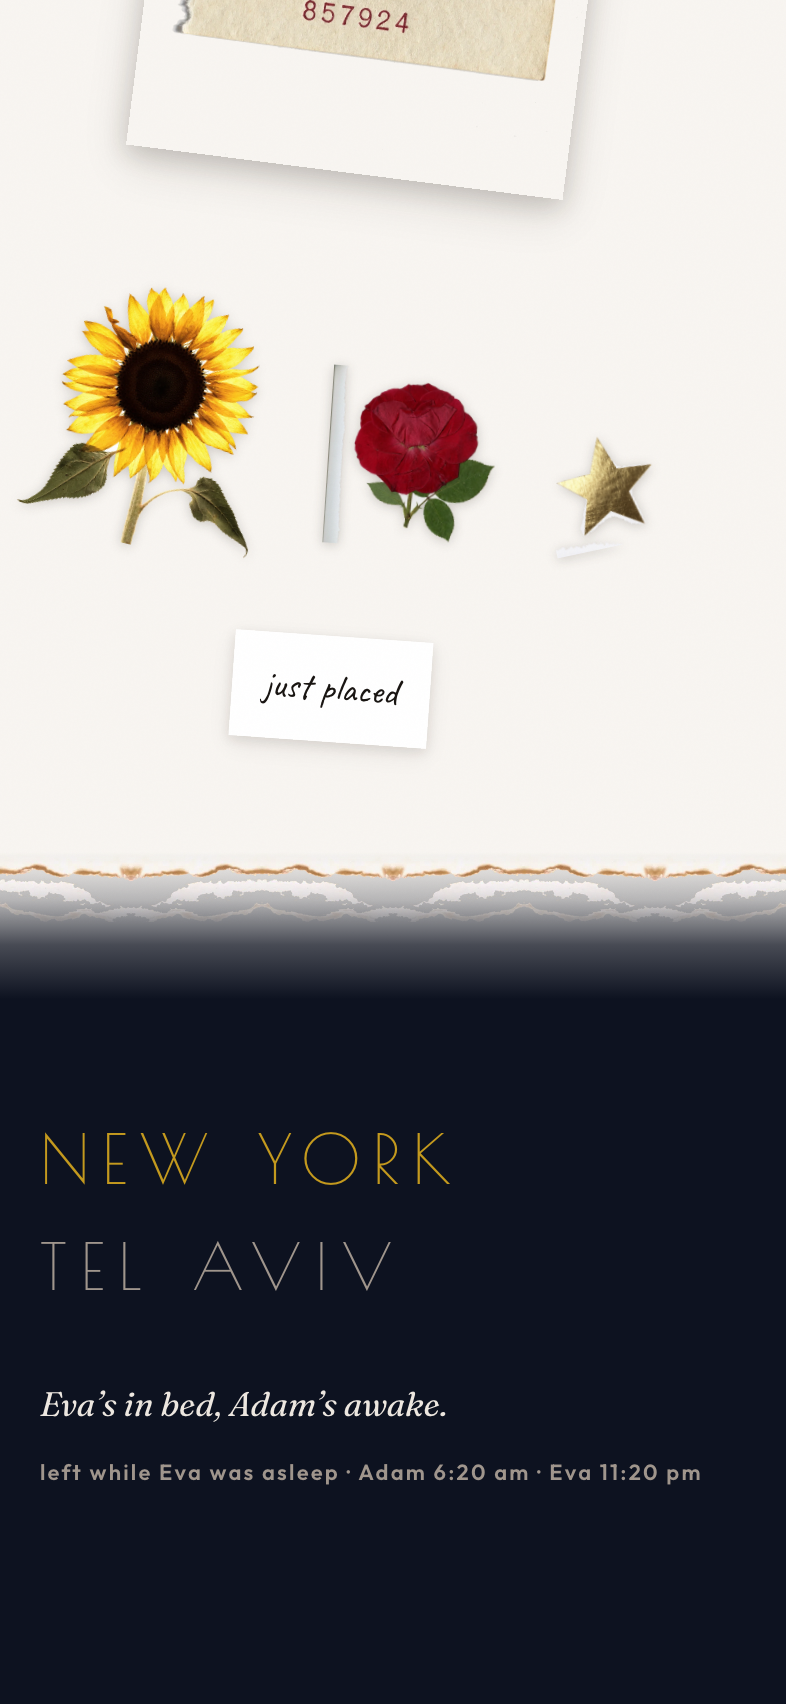
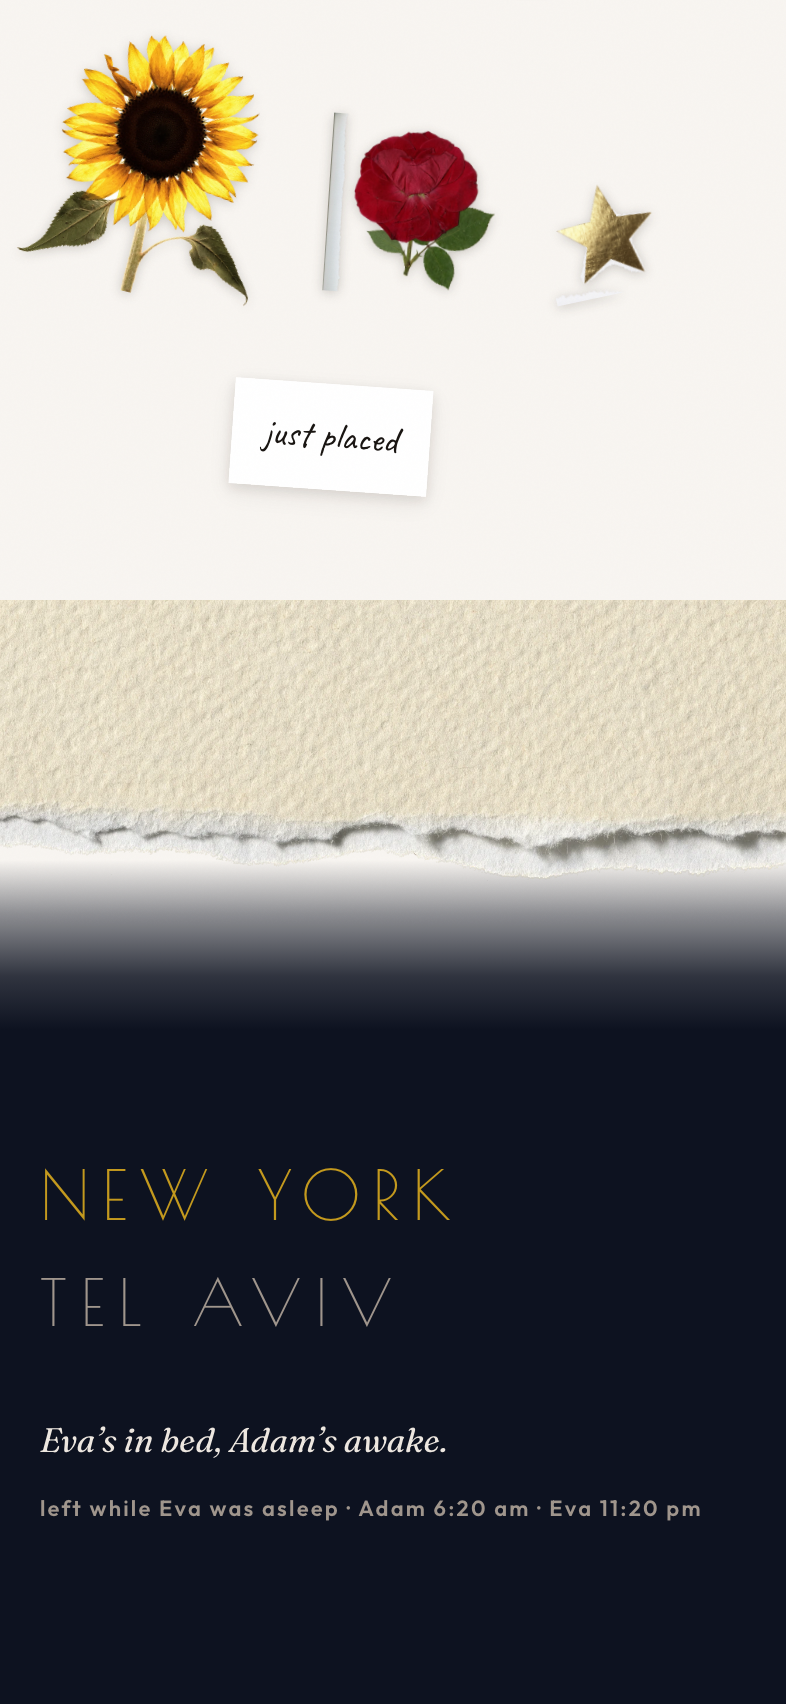
feat(materials): Seam built on the generated tear — coldpress default, bone by prop
The mechanical derivative is gone (scorch read as water damage, hard
crop bottom, 64.6% opaque top row); the Seam now composites
seam-tear-coldpress.webp, generated for the purpose: 100% opaque top
row butting flush against the paper, real tear geometry, true alpha
below the fibre — no masks needed, the feathering is the material.

variant='bone' swaps the rougher hand-ripped sheet in one word; the
founder picks on sight from the committed frames (coldpress reads as
the page ending, bone's laid lines fight the canvas).

height default rises to 224: the strip takes its natural aspect
(~145px at 393w) and the remainder is falloff. Judged by eye against
the alternative: the falloff begins BELOW the tear line, keeping
light on the fibre — at the tear it reads as a mask, below it reads
as a room. Both frames committed (wave0-day-seam vs
wave0-day-seam-falloff-at-tear).

Barrel comment no longer says the Seam is night-only; it renders in
both modes, always — place, not time.

diff --git a/apps/web/components/materials/Seam.tsx b/apps/web/components/materials/Seam.tsx
@@ -9,81 +9,95 @@ import { cn } from "@/lib/utils";
  * it, the distance (DECO — the sky, the skylines, the stamp).
  *
  * It is NOT a divider. If it reads as a section break, it has failed.
- * Two things keep it a single continuous space:
- *
- *   1. The fibre edge is a real torn sheet, composited as an <img>.
- *      `torn-edge-coldpress-seam.webp` is a mechanical derivative of
- *      torn-edge-coldpress.webp: rotated 90° CCW so the tear faces
- *      down, cropped to the tear band (measured from the alpha
- *      channel, not eyeballed). Never simulate this edge with
- *      box-shadow, clip-path or an SVG filter — a drawn tear is
- *      exactly the "made with coal" failure the founder rejected.
- *
- *   2. The falloff is light dying, not a colour block starting. The
- *      gradient begins fully transparent — the canvas above continues
- *      through the fibre — and lands on var(--night-sky) at the bottom
- *      edge, where the DECO section below must open on that exact
- *      colour. The handoff is invisible by construction.
  *
  * PLACE, NOT TIME. The Seam renders in both light and dark mode and
- * takes no mode check — revised §1: the clock stopped governing. The
- * --night-* tokens it depends on are :root constants for this reason.
+ * takes no mode check — revised §1 (2026-08-04): the clock stopped
+ * governing. Do not re-introduce a `[data-mode]` gate here; the
+ * --night-* tokens this component depends on are :root constants
+ * precisely so a Seam at noon still falls into the same sky.
+ *
+ * MATERIAL. The fibre edge is a generated horizontal tear
+ * (seam-tear-*.webp), purpose-made for this component: its top row is
+ * 100% opaque so it butts flush against the paper above with no join,
+ * its tear meanders with real geometry (std ~17px), and everything
+ * below the fibre is true alpha. It composites as a plain <img> with
+ * no masks — the feathering is in the material. Never simulate this
+ * edge with box-shadow, clip-path or an SVG filter, and never crop a
+ * band off torn-edge-coldpress.webp for it: that asset's tear runs
+ * vertically and any horizontal crop of it is a straight line wearing
+ * texture (that failure shipped twice on this branch already).
+ *
+ * LIGHT. The falloff gradient sits BEHIND the fibre and begins just
+ * below the tear line, not at it — a torn edge with light still on
+ * its fibre reads as a real object; one that goes straight to black
+ * reads as a mask. It lands on var(--night-sky) before the bottom
+ * edge, and the DECO section below must open on that exact colour —
+ * the handoff is invisible by construction.
  */
+
+export type SeamVariant = "coldpress" | "bone";
 
 export interface SeamProps {
   /**
-   * Total height of the seam in pixels. The torn fibre occupies
-   * roughly the top 32px; the rest is falloff into --night-sky.
-   * @default 80
+   * Which torn sheet ends the paper world. 'coldpress' is the soft
+   * deckle with cotton fibres (default — it reads as a sheet ending);
+   * 'bone' is the rougher hand-ripped tear with laid lines. The
+   * founder picks on sight; swapping is this one word.
+   * @default "coldpress"
+   */
+  variant?: SeamVariant;
+  /**
+   * Total height in pixels: the fibre strip at its natural aspect
+   * (~37% of render width — ~145px at 393px) plus the falloff below
+   * it. The default gives the tear an ~80px falloff at phone width;
+   * anything under ~180 starts cropping the tear itself.
+   * @default 224
    */
   height?: number;
   className?: string;
 }
 
-/** Derived fibre-edge asset — see the component comment for provenance. */
-const FIBRE_SRC = "/materials/torn-edge-coldpress-seam.webp";
+/** Natural dimensions ride along so the browser derives the aspect. */
+const FIBRE: Record<SeamVariant, { src: string; width: number; height: number }> = {
+  coldpress: { src: "/materials/seam-tear-coldpress.webp", width: 1344, height: 497 },
+  bone: { src: "/materials/seam-tear-bone.webp", width: 1344, height: 507 },
+};
 
-export function Seam({ height = 80, className }: SeamProps) {
+/**
+ * Falloff stops, as fractions of the container at the 393px baseline.
+ * Measured from the coldpress alpha channel: solid paper ends at 83%
+ * of the strip, fibre is gone by 95% — at height 224 that is ~54% and
+ * ~62% of the container. Darkness starts under the lit fibre (58%),
+ * not at the tear line.
+ */
+const FALLOFF =
+  "linear-gradient(to bottom, rgb(13 18 32 / 0) 0%, rgb(13 18 32 / 0) 58%, rgb(13 18 32 / 0.45) 70%, rgb(13 18 32 / 0.85) 84%, var(--night-sky) 96%)";
+
+export function Seam({ variant = "coldpress", height = 224, className }: SeamProps) {
+  const fibre = FIBRE[variant];
+
   return (
     <div
       aria-hidden="true"
       className={cn("relative w-full overflow-hidden", className)}
       style={{ height }}
     >
-      {/* Light falling off into the sky. Transparent through the fibre
-          zone so the canvas continues into the tear; --night-sky well
-          before the bottom edge so the handoff to the DECO section
-          below has margin. The stops are rgb(13 18 32 / …) rather than
+      {/* Light dying into the sky — behind and below the fibre, never
+          on top of it. The stops are rgb(13 18 32 / …) rather than
           `transparent` because a gradient through transparent-black
           greys out its midpoint. */}
-      <div
-        className="absolute inset-0"
-        style={{
-          background:
-            "linear-gradient(to bottom, rgb(13 18 32 / 0) 0%, rgb(13 18 32 / 0.28) 30%, rgb(13 18 32 / 0.75) 58%, var(--night-sky) 92%)",
-        }}
-      />
+      <div className="absolute inset-0" style={{ background: FALLOFF }} />
 
-      {/* The real fibre edge. The derived band is three mirrored tiles
-          of the tear, so at full width it stands about 43px tall and
-          the whole tear — sheet, tear line, hanging fibre — lives and
-          fades inside the seam instead of being clipped by it. The
-          mask is compositing, not drawing: it blends the sheet's crop
-          line into the canvas above and lets the fibre dissolve into
-          the dark instead of ending on a crop edge. */}
+      {/* The torn sheet itself, flush against the paper above. */}
       {/* eslint-disable-next-line @next/next/no-img-element -- keyed
           material composite; the image optimizer adds nothing to a
           small webp and must never re-encode its alpha. */}
       <img
-        src={FIBRE_SRC}
+        src={fibre.src}
         alt=""
+        width={fibre.width}
+        height={fibre.height}
         className="absolute inset-x-0 top-0 h-auto w-full"
-        style={{
-          WebkitMaskImage:
-            "linear-gradient(to bottom, transparent 0, #000 6px, #000 16px, rgb(0 0 0 / 0.5) 24px, transparent 38px)",
-          maskImage:
-            "linear-gradient(to bottom, transparent 0, #000 6px, #000 16px, rgb(0 0 0 / 0.5) 24px, transparent 38px)",
-        }}
       />
     </div>
   );

diff --git a/apps/web/components/materials/index.ts b/apps/web/components/materials/index.ts
@@ -8,7 +8,8 @@
  * Import order reflects the dependency chain:
  *   Mounted → everything (rotation, mass, settle physics)
  *   Taped / Pinned / Torn → composite wrappers over Mounted content
- *   Seam → the boundary between paper world and DECO city (night only)
+ *   Seam → where the paper tears into the DECO sky — both modes,
+ *          always; place, not time (revised §1)
  */
 export { Mounted } from "./Mounted";
 export type { MountedProps, MountedContext } from "./Mounted";
@@ -23,4 +24,4 @@ export { Torn } from "./Torn";
 export type { TornProps } from "./Torn";
 
 export { Seam } from "./Seam";
-export type { SeamProps } from "./Seam";
+export type { SeamProps, SeamVariant } from "./Seam";

diff --git a/docs/08-agents_work/sessions/2026-08-04-fable-wave0-foundation.md b/docs/08-agents_work/sessions/2026-08-04-fable-wave0-foundation.md
@@ -8,5 +8,5 @@ qa_verdict: PENDING — QA-Lead review requested
 
 Wave 0 shipped: 27 keyed material assets (webp, replacing 60 MB unkeyed PNGs), DECO tokens moved to `:root` as place-not-mode constants, three hand fonts declared in apps/web (not the kit root), five primitives (Mounted/Taped/Pinned/Torn/Seam) corrected against the revised §1, bench at `/dev/materials`, screenshots day+night in `screens/2026-08-04-wave0/`.
 Collision note: a second agent (design-lead-wave0) built in the same worktree from the stale packet; their good work was kept, their asset/token/font/Seam errors corrected — commits interleave.
-Seam needed three by-looking fixes (clipped fibre, tone-mismatch strip edge, ghost sticker shadows); final captures verified by eye, both modes.
-Known asset debts for Phase 0b: sticker die-cut white slivers (rose, star), seam tear ~65px repeat rhythm, materials stay day-lit at night — 11pm test must re-run in Wave 1 with a real photograph.
+Seam final: built on the generated `seam-tear-coldpress.webp` (CEO asset, main `e0d2084`), `variant` prop exposes `bone`; falloff starts below the tear — A/B judged by eye, lit fibre reads as a room, at-tear reads as a mask; both variants + the A/B frame captured for founder sight-choice.
+Known debts for Phase 0b: sticker die-cut white slivers (rose, star); materials stay day-lit at night (incl. the seam sheet's straight top edge on the dark table) — 11pm test must re-run in Wave 1 with a real photograph.
